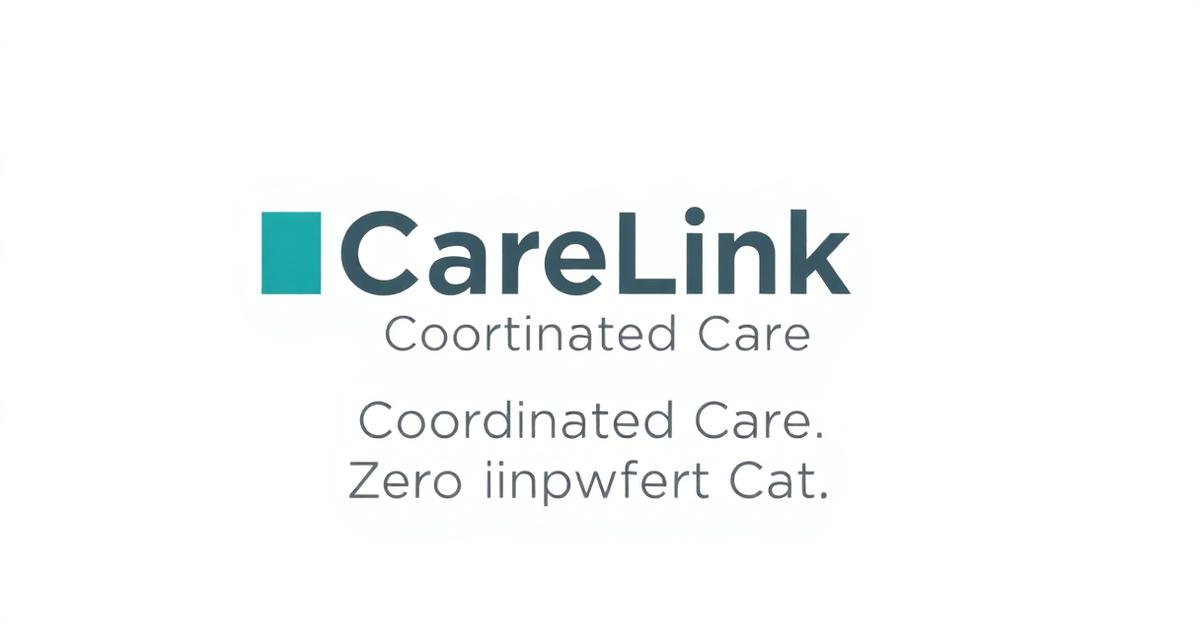
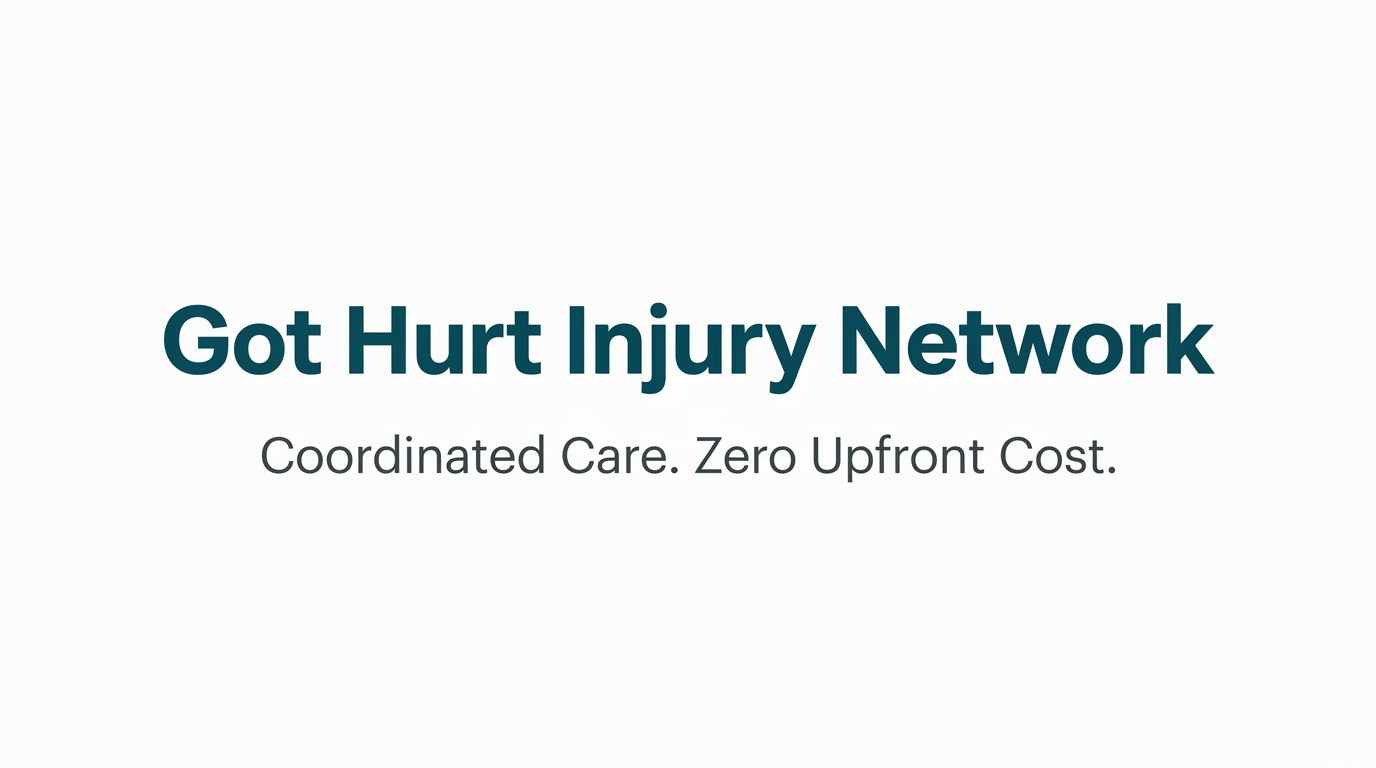
Hide branding image

Changed region(s): [[0.0925, 0.3317, 0.8942, 0.6937], [0.2775, 0.7238, 0.6783, 0.8143]]

diff --git a/src/pages/network/ReferralAccept.tsx b/src/pages/network/ReferralAccept.tsx
@@ -208,7 +208,7 @@ export default function ReferralAccept() {
         </div>
 
         <p className="text-center text-[10px] text-muted-foreground mt-4">
-          © {new Date().getFullYear()} Got Hurt Injury Network · CareLink Platform
+          © {new Date().getFullYear()} Got Hurt Injury Network
         </p>
       </div>
     </div>
